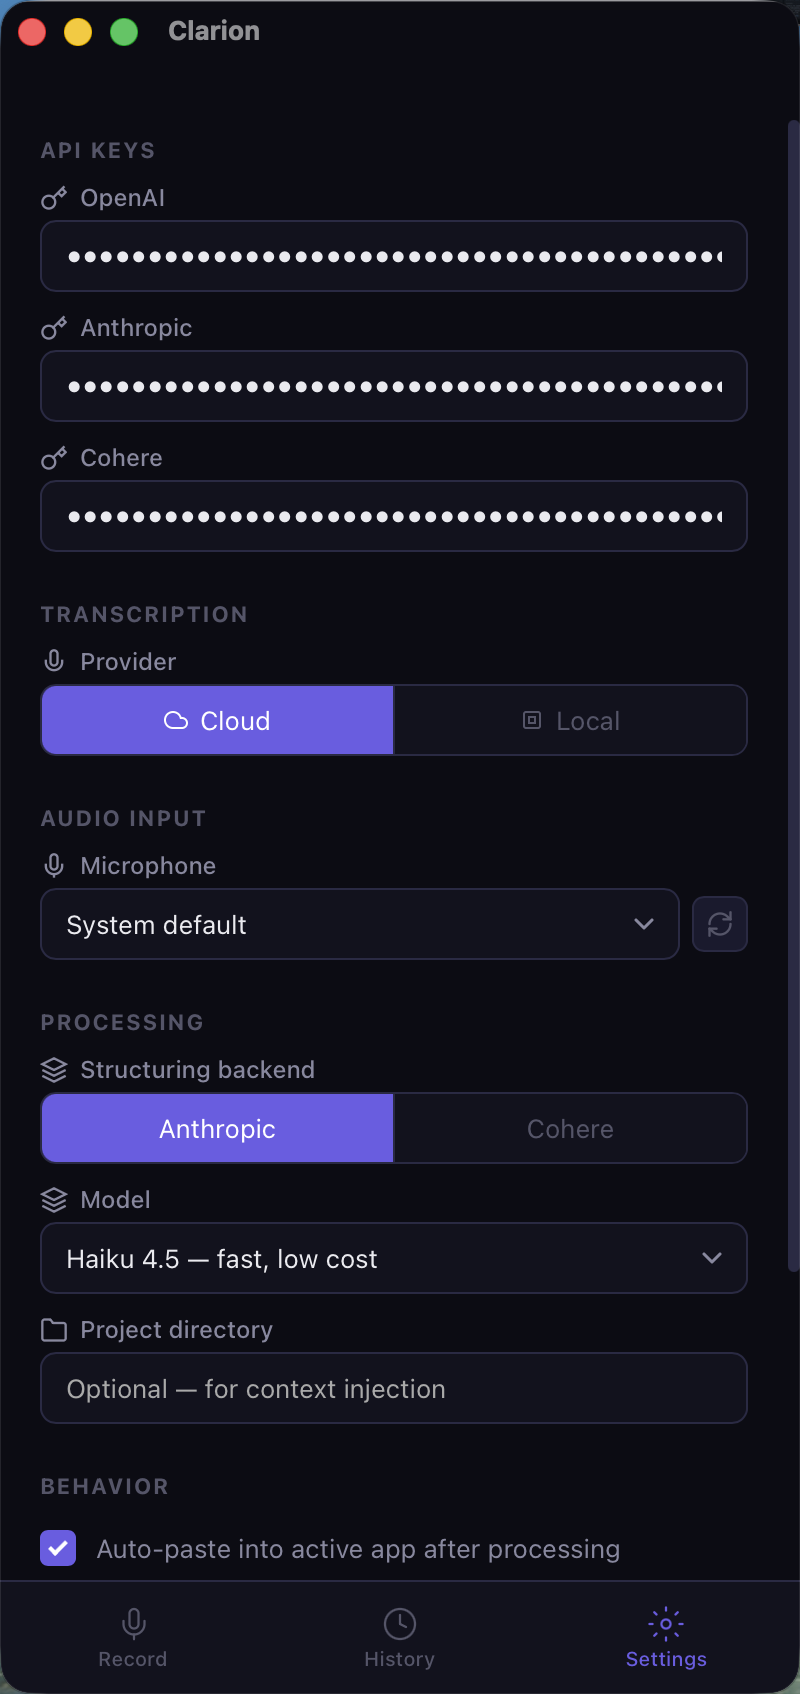
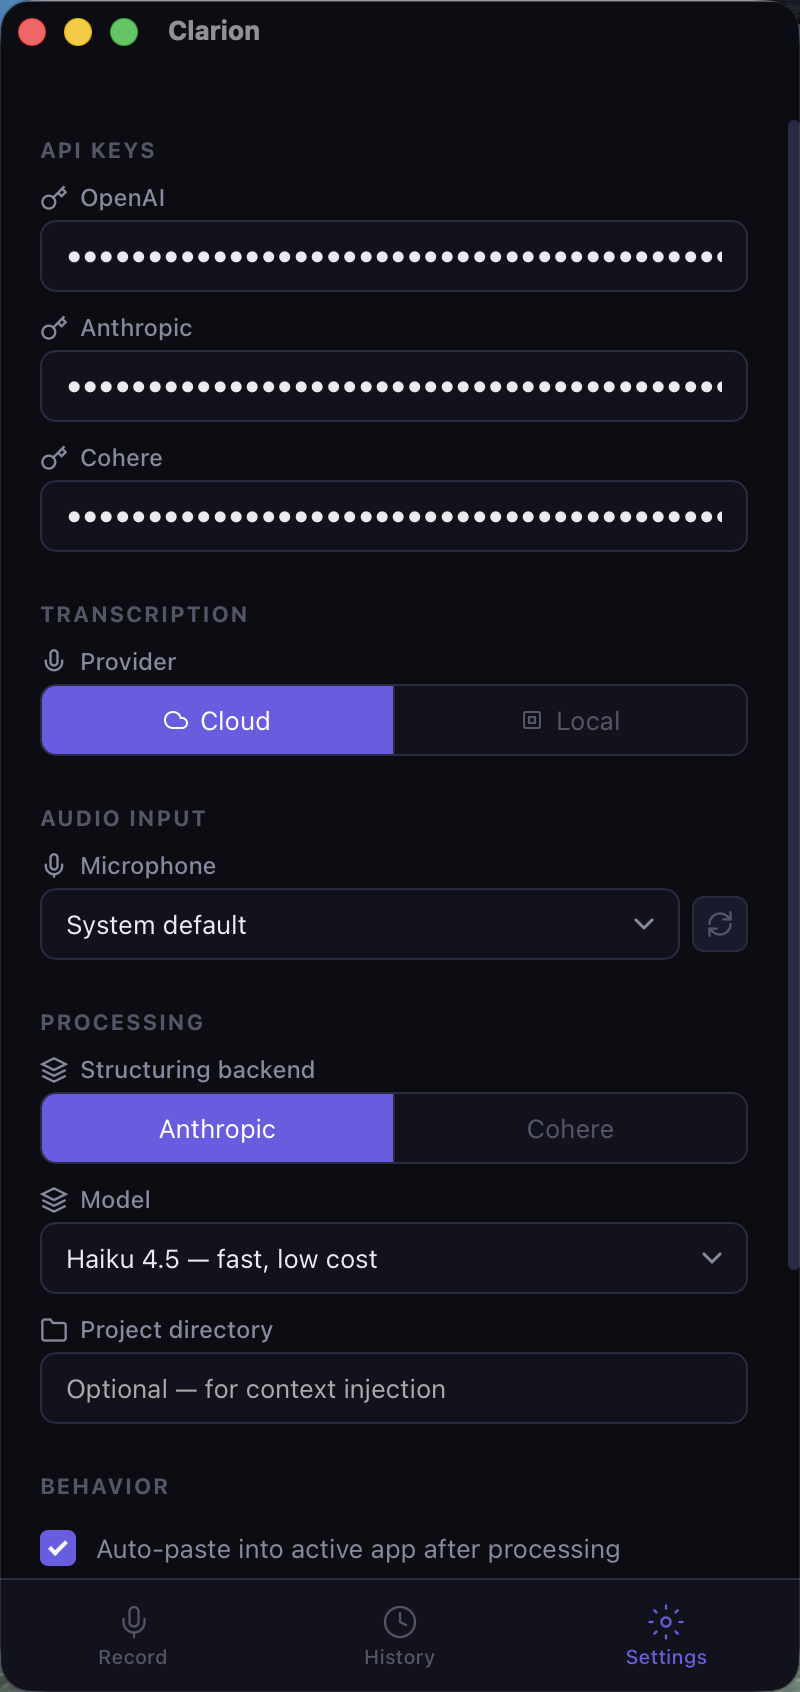
chore: make the README screenshots reproducible
The images in docs/media/ are captured from the running app, which means they
drift out of date silently as the UI changes. scripts/capture-screenshots.sh
regenerates all three from a live instance, so refreshing them is one command
rather than an afternoon of manual window-wrangling.

Two things the script has to work around and both are documented in it: the
first click after focusing the window is swallowed by activation rather than
hitting the nav bar, and the settings pane scrolls, so the window is grown to
full screen height for that capture and restored afterwards.

The failure mode worth knowing is that without Screen Recording permission
screencapture returns a desktop image instead of the window, and without
Accessibility permission the clicks silently do nothing — in both cases the
script reports success and writes the wrong picture. Hence the closing warning
to look at the output.

diff --git a/CONTRIBUTING.md b/CONTRIBUTING.md
@@ -36,6 +36,20 @@ cargo test  --manifest-path src-tauri/Cargo.toml
 (cd eval && .venv/bin/python -m pytest tests -q)
 ```
 
+## Screenshots
+
+The images in `docs/media/` are captured from the running app, so they go stale the moment
+the UI changes and nothing will tell you. After a visible change to `src/App.svelte`:
+
+```bash
+npm run tauri:dev &            # wait for the window to appear
+./scripts/capture-screenshots.sh
+```
+
+Needs Screen Recording and Accessibility permission for your terminal. Without them the
+script appears to succeed and writes the wrong picture, so look at the output before
+committing it.
+
 ## Invariants
 
 These are the places where a reasonable-looking change compiles, passes review, and is
